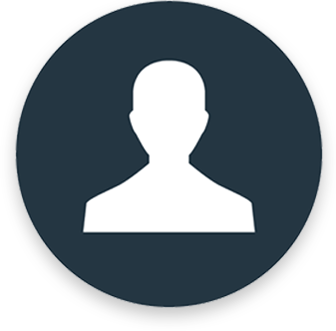
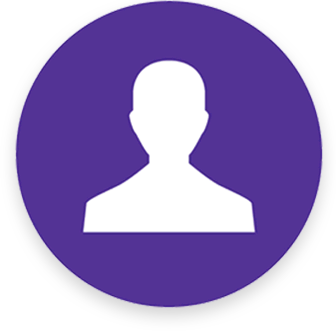
Added some varying profile pictures

diff --git a/web/resources/js/map.js b/web/resources/js/map.js
@@ -141,6 +141,7 @@ function initialize() {
 
     //#endregion
     
+    // Grab pins from rest api
     var xhr = new XMLHttpRequest();
     xhr.onreadystatechange = function() {
         if (xhr.readyState === XMLHttpRequest.DONE) {
@@ -152,9 +153,9 @@ function initialize() {
                     new google.maps.LatLng(curPin.latitude, curPin.longitude),
                     map,
                     {marker_id: curPin.id},
-                    "resources/images/profile-picture.png",
+                    "resources/images/profile-picture-" + (curPin.id % 4) + ".png",
                     curPin.description
-                    );
+                );
             }
         }
     };
@@ -162,50 +163,22 @@ function initialize() {
     xhr.open('GET', 'http://jupiter.cs.vt.edu/StreetSmartREST-1.0/webresources/com.mycompany.streetsmartrest.pin', true);
     xhr.send(null);
 
-//My current location marker
+    // Current location marker
     var myLocMarker = "resources/images/currlocmarker.png";
     var myloc = new google.maps.Marker({
-    clickable: false,
-    icon:myLocMarker,
-    shadow: null,
-    zIndex: 999,
-    map: map// your google.maps.Map object
+        clickable: false,
+        icon:myLocMarker,
+        shadow: null,
+        zIndex: 999,
+        map: map
     });
 
-if (navigator.geolocation) navigator.geolocation.getCurrentPosition(function(pos) {
-    var me = new google.maps.LatLng(pos.coords.latitude, pos.coords.longitude);
-    myloc.setPosition(me);
-}, function(error) {
-    // ...
-});
-    
-    
-    
-//    // Add pins
-//    overlay = new CustomMarker(
-//            new google.maps.LatLng(37.2277411, -80.422268),
-//            map,
-//            {marker_id: '1'},
-//            "resources/images/profile-picture.png",
-//            "This is an example pin. Something is going on " +
-//            "at this location!"
-//            );
-//    overlay = new CustomMarker(
-//            new google.maps.LatLng(37.2237411, -80.429268),
-//            map,
-//            {marker_id: '2'},
-//            "resources/images/profile-picture-2.png",
-//            "This is also an example pin. Something else is going " +
-//            "on at this location!"
-//            );
-//    overlay = new CustomMarker(
-//            new google.maps.LatLng(37.2270411, -80.436268),
-//            map,
-//            {marker_id: '3'},
-//            "resources/images/profile-picture-3.png",
-//            "This is another example pin. I'm running out of " +
-//            "example text to write."
-//            );
+    if (navigator.geolocation) navigator.geolocation.getCurrentPosition(function(pos) {
+        var me = new google.maps.LatLng(pos.coords.latitude, pos.coords.longitude);
+        myloc.setPosition(me);
+    }, function() {
+        // error function
+    });
 }
 
 // Display a message at the top of the map
@@ -287,10 +260,3 @@ function setMapCenterFromAddress(address) {
         }
     });
 }
-
-window.onload = function() {
-    // Set center if map is visible
-    if(map !== null) {
-        setMapCenterCurrLoc();
-    }
-};
